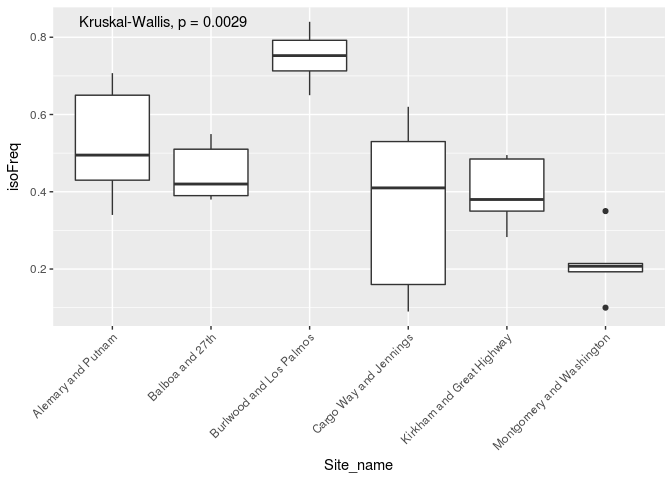
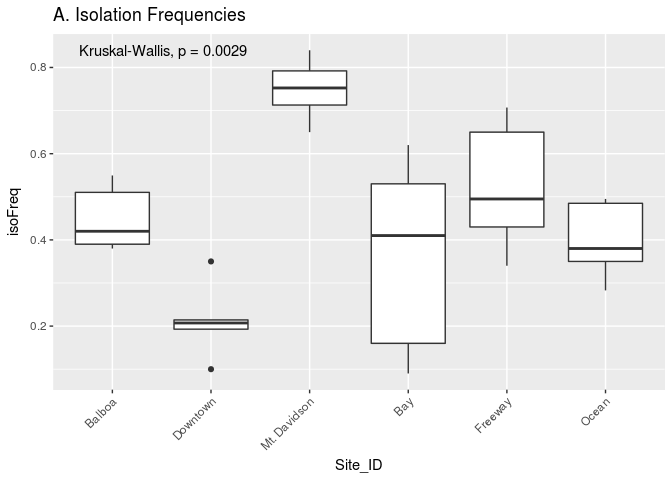
Add markdown copy of report, and associated new figures

diff --git a/2018-04-17_Report_draft.md b/2018-04-17_Report_draft.md
@@ -1,99 +1,7 @@
 Urban biogeography of fungal endophytes across San Francisco
 ================
-Emma Gibson and Naupaka Zimmerman
+Emma Gibson
 4/17/2018
-
-``` r
-# load libraries
-library("dplyr")
-```
-
-    ## 
-    ## Attaching package: 'dplyr'
-
-    ## The following objects are masked from 'package:stats':
-    ## 
-    ##     filter, lag
-
-    ## The following objects are masked from 'package:base':
-    ## 
-    ##     intersect, setdiff, setequal, union
-
-``` r
-library("tidyr")
-library("vegan")
-```
-
-    ## Loading required package: permute
-
-    ## Loading required package: lattice
-
-    ## This is vegan 2.4-6
-
-``` r
-library("ggplot2")
-library("tidyverse")
-```
-
-    ## ── Attaching packages ────────────────────────────────────────────────────────────────────────────────────────────── tidyverse 1.2.1 ──
-
-    ## ✔ tibble  1.4.2     ✔ purrr   0.2.4
-    ## ✔ readr   1.1.1     ✔ stringr 1.3.0
-    ## ✔ tibble  1.4.2     ✔ forcats 0.3.0
-
-    ## ── Conflicts ───────────────────────────────────────────────────────────────────────────────────────────────── tidyverse_conflicts() ──
-    ## ✖ dplyr::filter() masks stats::filter()
-    ## ✖ dplyr::lag()    masks stats::lag()
-
-``` r
-library("ggpubr")
-```
-
-    ## Loading required package: magrittr
-
-    ## 
-    ## Attaching package: 'magrittr'
-
-    ## The following object is masked from 'package:purrr':
-    ## 
-    ##     set_names
-
-    ## The following object is masked from 'package:tidyr':
-    ## 
-    ##     extract
-
-``` r
-# load files
-otus <- read.table("seq_with_OTU_ID.txt")
-groups <- read.table("groupfile.tsv")
-trees <- read.csv("metadata/M_excel_tree_metadata_with_isolationfreq.csv",
-                  stringsAsFactors = FALSE)
-TBAS <- read.csv("metadata/TBAS_taxonomies.csv")
-culturing <- read.csv("metadata/culturing_worksheet.csv")
-extractions <- read.csv("metadata/Extraction_worksheet.csv")
-
-# count by groups instead of trees
-otu_table <- otus %>%
-  left_join(groups, by = c("V1" = "V1")) %>%
-  group_by(V2.x, V2.y) %>%
-  summarize(count = n()) %>%
-  spread(V2.x, count, fill = 0)
-```
-
-    ## Warning: Column `V1` joining factors with different levels, coercing to
-    ## character vector
-
-``` r
-# get rid of rows with NA
-otu_table <- as.data.frame(na.omit(otu_table))
-
-# fix row name problems for vegan
-row.names(otu_table) <- otu_table[, 1]
-otu_table <- otu_table[, -1]
-
-# drop out USF test sample
-otu_table <- otu_table[1:30,]
-```
 
 Abstract
 ========
@@ -105,9 +13,9 @@ Introduction
 
 As people continue to live in increasingly urban environments, understanding the ecology of cities and urban settings will become critical to human health. Just as rural environments contain complex and dynamic ecosystems, the human and non-human aspects of large city habitats interact to creats a unique urban ecosystem. In recent years, ecologists have begun studying the urban environment just as they would a natural environment, in order to understand the novel environmental conditions this setting presents to the organisms that live there. For example, recent studies have shown that plant life in large cities can impact temperature, air quality, and other aspects of human health (Willis and Petrokofsky 2017). A study spanning the United States showed that plant life can improve a city's air quality by taking up significant amounts of carbon dioxide from urban air (Nowak et al. 2014). Another study in China indicated that healthy plant life can reduce the urban heat island effect, which is caused when heat becomes trapped between tall buildings (Kong et al. 2014). Therefore, understanding the impact of urban environments on plant health could help to allow those plants to thrive, benefitting the human inhabitants of the city as well as the environment as a whole.
 
-One potentially major factor influencing plant health that has yet to be studied in an urban environment in great detail is the endophytic microbiome. Endophytes are microbial organisms, generally bacteria and fungi, that live symbiotically inside the leaves of plants. Although some of these fungal microbes may be latent pathogens or decomposers waiting for the leaf to die, others are mutualists that may confer a benefit to their host. For instance, inoculation experiments have shown that specific species of endophytes can have an impact on their host’s overall health, including factors such as resistance and susceptibility to disease (Busby, Ridout, and Newcombe 2016). In the wild, endophytic communities display species diversity comparable to that of any macroscopic community, even among individual trees from the same species (Gazis, Rehner, and Chaverri, n.d.). However, what factors influence this diversity and to what extent is still poorly understood. The urban setting is unique because factors such as rainfall and elevation will be less apparent in a smaller geographic area, but new factors such as proximity to roads and tall buildings may introduce effects of their own. Studies of suburban forests in Japan have indicated that an urban setting has a notable impact on endophytic diversity (<span class="citeproc-not-found" data-reference-id="MATSUMURA201319">**???**</span>). However, the full impact of urban environmental factors on endophytic communities has yet to be completely understood.
+One potentially major factor influencing plant health that has yet to be studied in an urban environment in great detail is the endophytic microbiome. Endophytes are microbial organisms, generally bacteria and fungi, that live symbiotically inside the leaves of plants. Although some of these fungal microbes may be latent pathogens or decomposers waiting for the leaf to die, others are mutualists that may confer a benefit to their host. For instance, inoculation experiments have shown that specific species of endophytes can have an impact on their host’s overall health, including factors such as resistance and susceptibility to disease (Busby, Ridout, and Newcombe 2016). In the wild, endophytic communities display species diversity comparable to that of any macroscopic community, even among individual trees from the same species (Gazis, Rehner, and Chaverri, n.d.). However, what factors influence this diversity and to what extent is still poorly understood. The urban setting is unique because factors such as rainfall and elevation will be less apparent in a smaller geographic area, but new factors such as proximity to roads and tall buildings may introduce effects of their own. Studies of suburban forests in Japan have indicated that an urban setting has a notable impact on endophytic diversity (Matsumura and Fukuda 2013). However, the full impact of urban environmental factors on endophytic communities has yet to be completely understood.
 
-In this study, used culturing and barcode gene sequencing to identify the species makeup of endophytic communities in *Metrosideros excelsa* throughout San Francisco to relate environmental factors with fungal community composition. *M. excelsa* was an ideal species to choose for this study because it is both widely planted throughout San Francsico, and its endophytic communities have been documented in previous studies. In a related Hawaiian species, *Metrosideros polymorpha*, the species makeup of fungal endophyte communities has been shown to vary greatly with environmental factors such as elevation and rainfall (Zimmerman and Vitousek 2012). Although *M. excelsa's* endophytic communities have ben characterized in its native home of New Zealand, there have been few studies about these communities outside of its native environment or in an urban setting (McKenzie, Buchanan, and Johnston 1999).
+In this study, used culturing and barcode gene sequencing to identify the species makeup of endophytic communities in *Metrosideros excelsa* throughout San Francisco to relate environmental factors with fungal community composition. *M. excelsa* was an ideal species to choose for this study because it is both widely planted throughout San Francsico, and its endophytic communities have been documented in previous studies. In a related Hawaiian species, *Metrosideros polymorpha*, the species makeup of fungal endophyte communities has been shown to vary greatly with environmental factors such as elevation and rainfall (Zimmerman and Vitousek 2012). Although *M. excelsa's* endophytic communities have ben characterized in its native home of New Zealand, there have been few studies about these communities outside of its native environment or in an urban setting (McKenzie, Buchanan, and Johnston 1999). When studying this organism's microbiome in an urban environment, we expected to find that urban environmental factors such as pollution and tall buildings played a role in shaping the composition of these endophytic communities.
 
 Methods
 =======
@@ -135,7 +43,9 @@ We performed PCR on the ITS region, a commonly-accepted fungal barcode gene, usi
 Computational Methods
 ---------------------
 
-We analyzed the data using three tools: Geneious, Mothur, and the R programming language. We used Geneious to manually clean and trim the Sanger sequencing data, and to identify and remove failed and low-quality sequences (Kearse et al. 2012). We used Mothur to determine Operational Taxonomic Units (OTUs), which are groups of sequences categorized together based on similarity. Next, we used R to analyze the resulting OTU table. This included using the ‘vegan’ package to run and plot a Non-Metric Multidimensional Scaling (NMDS) ordination, a non-parametric technique used to visualize high-dimensional community data in only two dimensions. Lastly, we used vegan (???) to calculate PERMANOVA values in order to prove that observed patterns were significant.
+We analyzed the data using three tools: Geneious, Mothur, and the R programming language. We used Geneious to manually clean and trim the Sanger sequencing data, and to identify and remove failed and low-quality sequences (Kearse et al. 2012). We used Mothur to determine Operational Taxonomic Units (OTUs), which are groups of sequences categorized together based on similarity. Next, we used R to analyze the resulting OTU table. This included using the ‘vegan’ package to run and plot a Non-Metric Multidimensional Scaling (NMDS) ordination, a non-parametric technique used to visualize high-dimensional community data in only two dimensions. We used vegan (???) to calculate PERMANOVA values in order to prove that observed patterns were significant.
+
+Because ITS1 has a lot of variation and is therefore difficult to construct phylogenies with, we used the Tree-Based ALignment Selector (TBAS) toolkit to construct a phylogeny and assign taxonomies to the data (Carbone et al. 2017). This toolkit matches unknown ITS sequences to the most similar ITS sequences in a large multi-gene phylogeny of confidently-assigned taxa.
 
 Results
 =======
@@ -143,69 +53,14 @@ Results
 Isolation Frequency
 -------------------
 
-``` r
-trees %>%
- filter(Site_ID != "Parker") %>%
- filter(Date_sampled > "2017-08-25") %>%
- separate(isolation_freq,
-          into = c("grew", "total"),
-          sep = "/") %>%
- mutate(grew = as.numeric(grew),
-        total = as.numeric(total)) %>%
- mutate(isoFreq = grew/total) %>%
- ggplot(aes(x = Site_name,
-            y = isoFreq)) +
-   geom_boxplot() +
- theme(axis.text.x = element_text(angle = 45,
-                                  vjust = 1,
-                                  hjust = 1)) +
- stat_compare_means(method = "kruskal")
-```
+![](2018-04-17_Report_draft_files/figure-markdown_github/isolation-1.png)![](2018-04-17_Report_draft_files/figure-markdown_github/isolation-2.png)
 
-![](2018-04-17_Report_draft_files/figure-markdown_github/isolation-1.png)
+### Figure 2. Isolation frequencies and tree diameters at each site
 
-### Figure 1. Isolation frequencies of each site
+The isolation frequency, or the percentage of leaf pieces that yielded fungal isolates, varied considerably between sites (Figure 2 A.). In most sites, the isolation frequency also varies between trees, especially in the Bay site. Trees within the Bay site also show the greatest variation in diameter at breast height (DBH) (Figure 2 B.). The only site that does not show as consistent variation in isolation frequency is the Downtown site, which is also the site with the smalles isolation frequencies.
 
 Species richness
 ----------------
-
-``` r
-#set colors
-rare_color = c(rep("#ff5e62", 5),
-               rep("#f0a200", 5),
-               rep("#007f36", 5),
-               rep("#8781e6", 5),
-               rep("#00005a", 5),
-               rep("#81005e", 5))
-
-#rename sites to be more readable
-group_labels <- c(rep("Balboa", 5),
-                  rep("Downtown", 5),
-                  rep("Mt. Davidson", 5),
-                  rep("Bay", 5),
-                  rep("Freeway", 5),
-                  rep("Ocean", 5))
-
-#draw the species richness curves
-rarecurve(otu_table,
-          main = "Species accumulation curves for endophytic fungi",
-          col = rare_color,
-          label = FALSE,
-          lwd = 2,
-          xlab = "Number of fungal isolates",
-          ylab = "Number of fungal species (97% ITS OTUs)")
-
-#add a legend for greater readability
-legend("bottomright",
-       legend = levels(factor(group_labels)),
-       pch = 16,
-       col = c(rep("#ff5e62"),
-               rep("#8781e6"),
-               rep("#f0a200"),
-               rep("#00005a"),
-               rep("#007f36"),
-               rep("#81005e")))
-```
 
 ![](2018-04-17_Report_draft_files/figure-markdown_github/rarefaction-1.png)
 
@@ -213,176 +68,46 @@ legend("bottomright",
 
 The species richness curve graphs the number of fungal species (OTUs) found versus the totla number of fungal isolates for each tree's microbiome. Each line represents one tree's community, and the color of the line represents which site each tree was located in. A sharply angled line indicates that the full species diversity has not been samples, and a line that plateaus indicated that most of the species available in that community have been sampled. There were 97 total OTUs found among the 30 different trees. Both isolation frequency and number of fungal species found varies notably between trees.
 
-``` r
-extraction_with_tree <- read.table("groupfile.tsv",
-                                   sep = "\t",
-                                   col.names = c("Extraction_ID", "Tree_ID")) %>%
-  mutate(site_ID = substr(Tree_ID, 1, 2))
-
-TBAS_names_fixed <- TBAS %>%
-  mutate(Extraction_ID = substr(Query_sequence, 1, 8))
-
-TBAS_with_site <- TBAS_names_fixed %>%
-  left_join(extraction_with_tree, by = "Extraction_ID") %>%
-  na.omit()
-```
-
-    ## Warning: Column `Extraction_ID` joining character vector and factor,
-    ## coercing into character vector
-
-``` r
-write.csv(TBAS_with_site,
-          file = "metadata/TBS_with_site.csv",
-          row.names = FALSE)
-
-TBAS_with_site %>% 
-  group_by(site_ID, Class.level_assignment) %>%
-  tally() %>%
-  ggplot(aes(x = site_ID,
-             y = n,
-             fill = Class.level_assignment)) +
-  geom_col(position = position_fill()) +
-  scale_fill_discrete(name = "Class") +
-    scale_x_discrete(labels = c("Balboa",
-                                     "Downtown",
-                                     "Mt. Davidson",
-                                     "Bay",
-                                     "Freeway",
-                                     "Ocean")) +
-  xlab("Site")
-```
-
 ![](2018-04-17_Report_draft_files/figure-markdown_github/bar-graph-1.png)
 
 ### Figure 4. Prominent Taxa in each site
 
-The most prominent
+The most prominent taxa in each site vary considerably between sites. *Dothideomycetes*, the largest class within the ascomycetes, appears to predominate the microbiomes of most sites except for the Downtown and Bay sites. In both of these sites, *Sordariomycetes* is the most common class instead. There are several classes that are either absent or present in small numbers in most sites, but more abundant in one or several sites. For example, *Eurotiomycetes* are more common in the Downtown and Freeway sites, and *Leotiomycetes* is only abundant in the Mt. Davidson site.
 
 NMDS Ordination
 ---------------
-
-``` r
-ord_obj <- metaMDS(otu_table)
-```
-
-    ## Wisconsin double standardization
-    ## Run 0 stress 0.2365893 
-    ## Run 1 stress 0.2540048 
-    ## Run 2 stress 0.2519444 
-    ## Run 3 stress 0.260319 
-    ## Run 4 stress 0.2458621 
-    ## Run 5 stress 0.2555415 
-    ## Run 6 stress 0.240482 
-    ## Run 7 stress 0.2370939 
-    ## Run 8 stress 0.2378236 
-    ## Run 9 stress 0.2393982 
-    ## Run 10 stress 0.2387748 
-    ## Run 11 stress 0.2406154 
-    ## Run 12 stress 0.2508796 
-    ## Run 13 stress 0.2509497 
-    ## Run 14 stress 0.2469355 
-    ## Run 15 stress 0.2387746 
-    ## Run 16 stress 0.2592158 
-    ## Run 17 stress 0.2374066 
-    ## Run 18 stress 0.2397475 
-    ## Run 19 stress 0.2408619 
-    ## Run 20 stress 0.2571851 
-    ## *** No convergence -- monoMDS stopping criteria:
-    ##     20: stress ratio > sratmax
-
-``` r
-# fix row names to be more readable
-row.names(otu_table) <- c(paste("Balboa - Tree", 1:5),
-                         paste("Downtown - Tree", 1:5),
-                         paste("Mt. Davidson - Tree", 1:5),
-                         paste("Bay - Tree", 1:5),
-                         paste("Freeway - Tree", 1:5),
-                         paste("Ocean - Tree", 1:5))
-
-trees_aug <- subset(trees, as.POSIXct(trees$Date_sampled) > as.POSIXct("2017-08-01"))
-
-plot(ord_obj,
-     display = "sites",
-     type = "n",
-     main = "NMDS ordination of fungal community composition",
-     cex.main = 1.6,
-     xlab = "",
-     ylab = "",
-     tck = 0,
-     labels = FALSE)
-```
-
-    ## Warning in plot.window(...): "labels" is not a graphical parameter
-
-    ## Warning in plot.xy(xy, type, ...): "labels" is not a graphical parameter
-
-    ## Warning in box(...): "labels" is not a graphical parameter
-
-    ## Warning in title(...): "labels" is not a graphical parameter
-
-``` r
-points(ord_obj,
-       display = "sites",
-       col = c(rep("#ff5e62", 5),
-               rep("#f0a200", 5),
-               rep("#007f36", 5),
-               rep("#8781e6", 5),
-               rep("#00005a", 5),
-               rep("#81005e", 5)),
-       cex = trees_aug$DBH_cm/10,
-       pch = 16)
-
-legend("bottomleft",
-       legend = levels(factor(group_labels)),
-       pch = 16,
-       cex = 1,
-       pt.cex = 2,
-       col = c(rep("#ff5e62"),
-               rep("#8781e6"),
-               rep("#f0a200"),
-               rep("#00005a"),
-               rep("#007f36"),
-               rep("#81005e")))
-
-ordiellipse(ord_obj,
-            groups =group_labels,
-            label = FALSE,
-            col = c(rep("#ff5e62"),
-                    rep("#8781e6"),
-                    rep("#f0a200"),
-                    rep("#00005a"),
-                    rep("#007f36"),
-                    rep("#81005e")),
-            lwd = 7)
-```
 
 ![](2018-04-17_Report_draft_files/figure-markdown_github/ordination-1.png)
 
 ### Figure 5. NMDS ordination of community composition
 
-A non-metric multidimensional scaling (NMDS) ordination graphs the microbial communities of each tree by compositional similarity using the DNA sequences from each tree. Each point represents the endophytic community of one tree, and the size of the point corresponds to that tree's diameter at breast height (DBH), while the color of said point corresponds to the site that tree is from. The ellipses show the standard error around the centroid of all points within a site, and are also color-coded according to which site they represent.
+A non-metric multidimensional scaling (NMDS) ordination graphs the microbial communities of each tree by compositional similarity using the DNA sequences from each tree. Each point represents the endophytic community of one tree, and the size of the point corresponds to that tree's DBH, while the color of said point corresponds to the site that tree is from. The ellipses show the standard error around the centroid of all points within a site, and are also color-coded according to which site they represent.
 
 Discussion
 ==========
 
-The major, overarching takeaway from this study is that the urban endophytic microbiome contains a great amount of diversity and should not be overlooked. Even in the small geographic area of San Francisco, we found notable trends in microbiome composition that appear to vary with uniquely urban environmental factors, such as traffic.
+Overall, the microbial composition of these urban trees' leaves varies in many aspects, from number of fungal isolates to the identities of said isolates. This variation could be explained by numerous environmental factors, as well as host physiological factors, such as the age and size of the tree. Each aspect of these complex microbimoes is likely influenced by several of these factors at once. For example, both isolation frequency and DBH varied greatly from one site to the other, and some sites showed considerable within-site differences in these factorsa well. The trees in the bay showed the greatest range in both isolation frequency and DBH (Figure 2 A and B), indicating that the size of a tree likely has a corelation with the number of fungal endophytes found within its leaves. Just as it shows the greatest range of isolation frequencies and tree sies, the Bay site also has the greatest diversity in fungal communities on the NMDS ordination. The two trees with vastly different communities are also the smallest, and therefore likely youngest (Figure 5). in this instance, it appears that the age of the trees has the largest impact on the endophytic communities. This conclusion is further supported by the fact that the Mt. Davidson site, which has the most tightly-clustered communities (Figure 5), also has fairly large trees with similar DBH. Additionaly, the Mt. Davidson trees have a larger median and range of DBH than the ocean or freeway trees (Figure 2 B.), and also have a higher median isolation frequency. This indicates that trees with a larger DBH generally have a higher number of fungal endophytes, which could be because larger trees are likely older and have had more time to acquire fungal endophytes.
 
-The NMDS ordination indicates that urban environmental factors play a considerable role in shaping the endophytic communities of these trees. Some of the NMDS groupings can be explained by geographic proximity, like the Ocean and Balboa sites. However, the proximity of the Downtown and Freeway sites indicate that there may be common environmental factors impacting community composition, such as traffic and pollution.
+Although there appears to be a general pattern with larger trees hosting a greater number of fungal endophytes, DBH cannot explain all of the variation in isolation frequencies, as demonstrated by the Downtown and Balboa sites. Although the trees from the downtown site have a larger median DBH (Figure 2 B.), the trees from the Balboa site have considerably more endophytes (Figure 2 A.), which demonstrates that larger trees do not necesarily have a higher number of fungal endophytes. In such cases, it is likely that environmental factors play a key role in shaping the endophytic communities of these trees. While the impact of environmental factors may be less evident when considering the number of fungal endophytes in a tree's microbiome, it becomes more apparent when looking at the identities of these endophytes. The composition of these communities can vary greatly among trees with similar isolation frequencies, as demonstrated by the taxonomic composition of the Mt. Davidson and bay sites (Figure 4). In general, there was more compostitional similarity between trees from the same location than between trees of a similar size (Figure 5).
 
-The isolation frequency varied greatly from one site to the other, and while some sites showed similar isolation frequencies across all trees, others had a wide variety of
+These findings indicate that urban environmental factors play a considerable role in shaping the endophytic communities of these trees. Most of the trees within the same site cluster together on the NMDS ordination, and sites that cluster closer together are typically geographically close together, indicating that disperal mechanisms and/or common environmental factors may be shaping these community compositions (Figure 5). However, disperal alone does not sufficiently explain the compositional similarity of the downtown and freeway sites cluster together despite being fairly distant geographically (Figure 1). This indicates that these sites share a common environmental factor that shapes their communities, such as traffic and polution levels.
 
-The Bay site shows the greatest diversity in fungal communities on the NMDS ordination, as well as a large difference in isolation frequency and DBH. Although this could be due to the climate of the bay, we believe that it is more likely due to the age of the trees. The two trees with vastly different communities are also the smalles, and therefore likely youngest, trees (Figure 5).Younger trees have been exposed to less endophytes, This conclusion is further supported by the fact that the Mt. Davidson site, which has the most tightly-clustered communities (Figure 5), also has fairly large trees with similar DBH.
+Tis study has demonstrated that the urban endophytic microbiome contains a great amount of diversity and appears to be influenced by unique urban environmental factors. Nearly all of the species accumulation curves indicate that the full diversity of these endophytic communities has yet to be sampled (Figure 3). Even in the small geographic area of San Francisco, we found notable trends in microbiome composition that appear to vary with uniquely urban environmental factors, such as traffic. A combination of environmental factors and host physiology appear to be the driving force behind the diversity of these microbiomes. While tree age and size may have a major impact on the number of fungal endophytes in a tree's microbiome, the composition of these comunities is more directly influenced by environmental factors.
 
 Sources Cited
 =============
 
 Busby, Posy E., Mary Ridout, and George Newcombe. 2016. “Fungal Endophytes: Modifiers of Plant Disease.” *Plant Molecular Biology* 90 (6): 645–55. doi:[10.1007/s11103-015-0412-0](https://doi.org/10.1007/s11103-015-0412-0).
 
+Carbone, Ignazio, James B. White, Jolanta Miadlikowska, A. Elizabeth Arnold, Mark A. Miller, Frank Kauff, Jana M. U’Ren, Georgiana May, and François Lutzoni. 2017. “T-Bas: Tree-Based Alignment Selector Toolkit for Phylogenetic-Based Placement, Alignment Downloads and Metadata Visualization: An Example with the Pezizomycotina Tree of Life.” *Bioinformatics* 33 (8): 1160–8. doi:[10.1093/bioinformatics/btw808](https://doi.org/10.1093/bioinformatics/btw808).
+
 Gazis, Romina, Stephen Rehner, and Priscila Chaverri. n.d. “Species Delimitation in Fungal Endophyte Diversity Studies and Its Implications in Ecological and Biogeographic Inferences.” *Molecular Ecology* 20 (14): 3001–13. doi:[10.1111/j.1365-294X.2011.05110.x](https://doi.org/10.1111/j.1365-294X.2011.05110.x).
 
 Kearse, Matthew, Richard Moir, Amy Wilson, Steven Stones-Havas, Matthew Cheung, Shane Sturrock, Simon Buxton, et al. 2012. “Geneious Basic: An Integrated and Extendable Desktop Software Platform for the Organization and Analysis of Sequence Data.” *Bioinformatics* 28 (12): 1647–9. doi:[10.1093/bioinformatics/bts199](https://doi.org/10.1093/bioinformatics/bts199).
 
 Kong, F, H Yin, P James, LR Hutyra, and HS He. 2014. “Effects of Spatial Pattern of Greenspace on Urban Cooling in a Large Metropolitan Area of Eastern China.” *Landscape and Urban Planning* 128. Elsevier: 35–47. doi:[10.1016/j.landurbplan.2014.04.018](https://doi.org/10.1016/j.landurbplan.2014.04.018).
+
+Matsumura, Emi, and Kenji Fukuda. 2013. “A Comparison of Fungal Endophytic Community Diversity in Tree Leaves of Rural and Urban Temperate Forests of Kanto District, Eastern Japan.” *Fungal Biology* 117 (3): 191–201. doi:[https://doi.org/10.1016/j.funbio.2013.01.007](https://doi.org/https://doi.org/10.1016/j.funbio.2013.01.007).
 
 McKenzie, E. H. C., P. K. Buchanan, and P. R. Johnston. 1999. “Fungi on Pohutukawa and Other Metrosideros Species in New Zealand.” *New Zealand Journal of Botany* 37 (2). Taylor & Francis: 335–54. doi:[10.1080/0028825X.1999.9512637](https://doi.org/10.1080/0028825X.1999.9512637).
 
